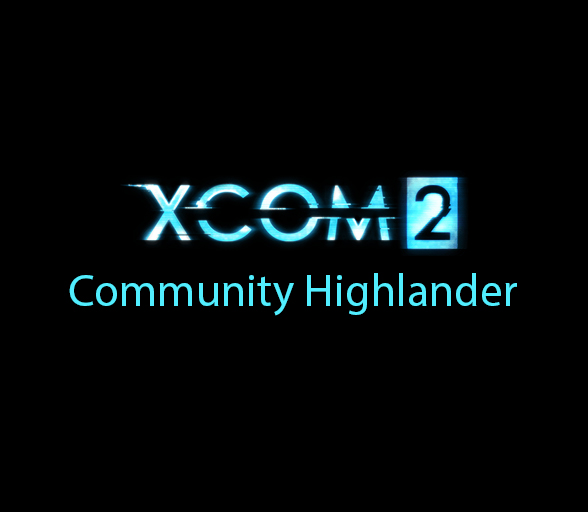
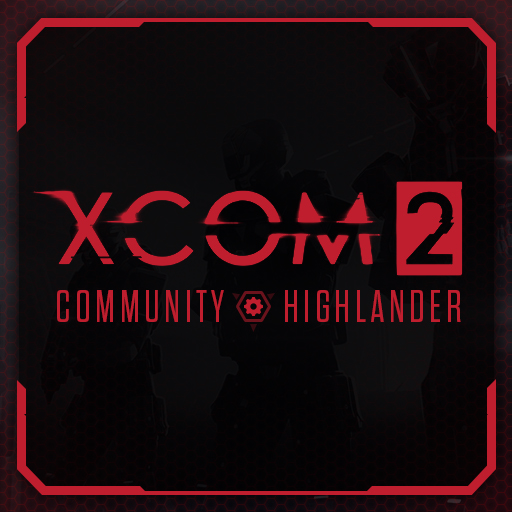
Add new ModPreview & Contributors list.

Changed region(s): [[0.0, 0.0, 1.0, 1.0]]

diff --git a/CONTRIBUTORS.md b/CONTRIBUTORS.md
@@ -1,0 +1,4 @@
+Pavonis Interactive (formerly Long War Studios) - initial development
+Maluco Marinero - development
+Robojumper - development
+.vhs - ModPreview thumbnail
